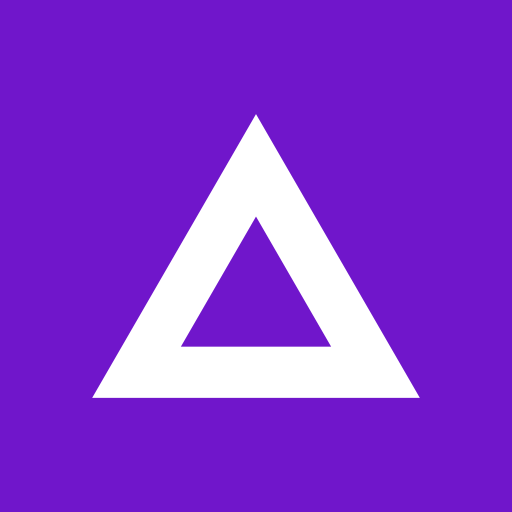
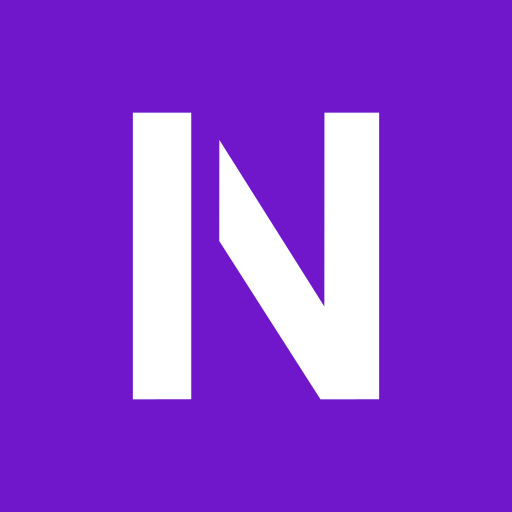
Drop the triangle mark, make the wordmark static
Two changes, both about the same corner of the brand: the nav no longer
shows the triangle beside the wordmark, and the wordmark itself is no
longer the self-animating SVG that morphed its 3 into that triangle on a
6.2s loop.

- public/logo-wordmark.svg is logo-animated.svg with every <animate>
  element stripped: 171KB down to 6KB, same letterforms, no morph.
  logo-animated.svg is kept as the source it was derived from.
- Logo.tsx collapses to just the wordmark — no more mark/lockup variants,
  no LogoMark, no artwork.mark. Nav and Footer both render it plain.
- Favicons and app icons are regenerated from an "N" cropped out of the
  wordmark's own two polygons, not a separate mark shape. A full wordmark
  at 16px is unreadable, but a single letter reads fine, and this avoids
  maintaining brand geometry that has to visually agree with a wordmark
  sitting right next to it.
- Removed public/logo-mark.svg — orphaned once nothing renders it.

Also: public/uploads/ was never gitignored, and a `git add -A` while
preparing this commit almost swept in a CMS-uploaded video. Added the
ignore rule; nothing under uploads had been committed before.

Changed region(s): [[0.1875, 0.2188, 0.8125, 0.7812]]

diff --git a/src/components/Logo.tsx b/src/components/Logo.tsx
@@ -1,123 +1,35 @@
-const WORDMARK_SRC = "/logo-animated.svg";
+const WORDMARK_SRC = "/logo-wordmark.svg";
 
 /**
- * The purple inside the logo artwork, which is *not* the same as the brand's
- * `--color-purple` token (#7a06d3): the supplied logo files are #7016cb. The
- * mark is drawn in the artwork's purple rather than the token's so that the two
- * halves of the lockup agree — a triangle in #7a06d3 beside a wordmark in
- * #7016cb reads as a mistake at any size.
+ * The NØRR3 wordmark.
  *
- * Deliberately not wired to the theme token, for the same reason: recolouring
- * the UI should not recolour the logo.
+ * There used to be a triangle mark shown beside it (the numeral 3, in the
+ * brand's other asset, morphs into one) and the wordmark used to be that
+ * animated SVG directly. Both were removed: the mark is not part of the logo
+ * as used on the site, and a shape morphing on a 6.2s loop in the header of
+ * every page was more motion than the brand wanted. This is the wordmark
+ * alone, static — `public/logo-wordmark.svg` is `logo-animated.svg` with its
+ * SMIL `<animate>` elements stripped (171KB down to 6KB).
  *
- * Written as classes rather than an inline style because an inline `color` wins
- * against `dark:text-white`, which would leave a purple mark on the dark
- * background. Tailwind picks the literal up by scanning this file.
+ * Kept as an `<img>` rather than inlined: it is one asset shared and cached
+ * across every page, and recolours for dark mode via a `brightness-0 invert`
+ * filter rather than `currentColor`, so callers pass that as `className`.
  */
-const MARK_COLOR = "text-[#7016cb] dark:text-white";
-
-/**
- * The NØRR3 logo, in the three forms a brand actually needs.
- *
- * - `lockup` (default) — the mark and the wordmark side by side. What the nav
- *   and any other "this is the site" position should use.
- * - `mark` — the triangle on its own, for tight spaces: an app icon, an avatar,
- *   a favicon, a loading state.
- * - `wordmark` — the letters on their own, for places already surrounded by
- *   brand, like the giant footer signature.
- *
- * The wordmark stays an `<img>` because it is a self-animating SMIL SVG — the
- * numeral 3 morphs into the mark on a loop, and running that inside an `<img>`
- * keeps 170KB of keyframes out of every page's HTML and cached as one asset.
- *
- * The mark is inlined instead, for the opposite reason: it is one path, so
- * inlining costs nothing and buys `currentColor`. That matters because the
- * wordmark can only be recoloured by `brightness-0 invert` filter tricks, while
- * the mark simply inherits whatever colour it is placed in.
- */
-
-/** Geometry documented in `public/logo-mark.svg`. */
-export function LogoMark({ className = "" }: { className?: string }) {
-  return (
-    <svg
-      viewBox="0 0 206 178.4"
-      className={className}
-      fill="currentColor"
-      aria-hidden
-      focusable="false"
-    >
-      <path fillRule="evenodd" d="M103 0 206 178.4H0Zm0 64.4-47.23 81.8h94.46Z" />
-    </svg>
-  );
-}
-
-export type LogoArtwork = {
-  /** CMS-uploaded mark. Empty means the built-in inline triangle. */
-  mark?: string;
-  /** CMS-uploaded wordmark. Empty means the built-in animated SVG. */
-  wordmark?: string;
-};
-
 export function Logo({
-  variant = "lockup",
   className = "",
   artwork,
 }: {
-  variant?: "lockup" | "mark" | "wordmark";
-  /**
-   * Applied to the wordmark image, so existing callers that pass filter classes
-   * such as `dark:brightness-0 dark:invert` keep working. The built-in mark
-   * recolours through `currentColor` and needs none of that — but an uploaded
-   * mark is an opaque file, so it gets the same filter treatment as the
-   * wordmark, since that is the only way to make arbitrary artwork work on a
-   * dark background.
-   */
   className?: string;
-  /** Replacement artwork from the CMS. Either field may be empty. */
-  artwork?: LogoArtwork;
+  /** A wordmark file uploaded in the CMS. Empty means the shipped SVG. */
+  artwork?: { wordmark?: string };
 }) {
-  const customMark = artwork?.mark?.trim() || "";
   const customWordmark = artwork?.wordmark?.trim() || "";
-
-  const mark = (height: string) =>
-    customMark ? (
-      <img
-        src={customMark}
-        alt=""
-        className={`${height} w-auto shrink-0 select-none ${className}`}
-        draggable={false}
-      />
-    ) : (
-      <LogoMark className={`${height} w-auto shrink-0 ${MARK_COLOR}`} />
-    );
-
-  if (variant === "mark") {
-    // Alone, the mark is the only thing naming the site, so it carries the label
-    // that the lockup puts on the wordmark instead.
-    return (
-      <span className="inline-flex" role="img" aria-label="NØRR3">
-        {mark("h-6")}
-      </span>
-    );
-  }
-
-  const wordmark = (
+  return (
     <img
       src={customWordmark || WORDMARK_SRC}
       alt="NØRR3"
       className={`h-6 w-auto select-none ${className}`}
       draggable={false}
     />
-  );
-
-  if (variant === "wordmark") return wordmark;
-
-  return (
-    // The mark is set slightly shorter than the wordmark: matched on height it
-    // reads as larger, because a triangle carries more ink than open letterforms.
-    <span className="flex items-center gap-2.5">
-      {mark("h-[19px]")}
-      {wordmark}
-    </span>
   );
 }

diff --git a/src/lib/cms.ts b/src/lib/cms.ts
@@ -177,10 +177,10 @@ export type SiteContent = {
     valuePills: { id: string; icon: string; fi: string; en: string }[];
     mediaPills: { id: string; icon: string; fi: string; en: string }[];
     /**
-     * Logo artwork. An empty path means "use the file the site ships with",
-     * which is how the brand survives a CMS that nobody has filled in.
+     * Wordmark override. An empty path means "use the file the site ships
+     * with", which is how the brand survives a CMS that nobody has filled in.
      */
-    logo: { mark: string; wordmark: string; navVariant: "lockup" | "mark" | "wordmark" };
+    logo: { wordmark: string };
   };
   mediaAlt: Record<string, { fi: string; en: string }>;
   site: {
@@ -253,9 +253,8 @@ function fallbackContent(error?: string): SiteContent {
     code: { css: "", head: "", bodyEnd: "" },
     theme: { root: {}, dark: {} },
     motion: MOTION_DEFAULTS,
-    // Empty logo paths mean the shipped artwork: public/logo-mark.svg and
-    // public/logo-animated.svg. Nothing to fall back to beyond that.
-    brand: { clients, valuePills, mediaPills, logo: { mark: "", wordmark: "", navVariant: "lockup" } },
+    // Empty means the shipped artwork: public/logo-wordmark.svg.
+    brand: { clients, valuePills, mediaPills, logo: { wordmark: "" } },
     mediaAlt: {},
     site: {
       name: "NØRR3",
@@ -401,13 +400,7 @@ function merge(raw: RawBundle, fallback: SiteContent): SiteContent {
       clients: nonEmpty(raw.brand?.clients, fallback.brand.clients),
       valuePills: nonEmpty(raw.brand?.valuePills, fallback.brand.valuePills),
       mediaPills: nonEmpty(raw.brand?.mediaPills, fallback.brand.mediaPills),
-      logo: {
-        mark: raw.brand?.logo?.mark || "",
-        wordmark: raw.brand?.logo?.wordmark || "",
-        navVariant: NAV_VARIANTS.includes(raw.brand?.logo?.navVariant as never)
-          ? (raw.brand!.logo!.navVariant as "lockup" | "mark" | "wordmark")
-          : "lockup",
-      },
+      logo: { wordmark: raw.brand?.logo?.wordmark || "" },
     },
     mediaAlt: raw.media ?? {},
     site: {
@@ -417,8 +410,6 @@ function merge(raw: RawBundle, fallback: SiteContent): SiteContent {
     } as SiteContent["site"],
   };
 }
-
-const NAV_VARIANTS = ["lockup", "mark", "wordmark"] as const;
 
 function nonEmpty<T>(value: unknown, fallback: T): T {
   return Array.isArray(value) && value.length > 0 ? (value as unknown as T) : fallback;

diff --git a/src/components/Footer.tsx b/src/components/Footer.tsx
@@ -6,13 +6,23 @@ import type { Dictionary } from "@/content/dictionary";
 import type { Locale } from "@/i18n/config";
 
 
-export function Footer({ locale, dict }: { locale: Locale; dict: Dictionary }) {
+export function Footer({
+  locale,
+  dict,
+  logo,
+}: {
+  locale: Locale;
+  dict: Dictionary;
+  /** Wordmark override, editable in the CMS under Design. */
+  logo?: { wordmark: string };
+}) {
+  const wordmarkSrc = logo?.wordmark?.trim() || "/logo-wordmark.svg";
   return (
     <footer className="bg-purple text-white">
-      {/* Giant logo wordmark — uses the real NØRR3 animated SVG so the
-          wordmark matches the brand exactly (incl. the 3→Δ morph). The SVG
-          is black-on-purple (the footer bg), same as the nav logo on white.
-          Letters rise in on scroll for the reveal. */}
+      {/* Giant logo wordmark — the static SVG (no morph, no loop), so it does not
+          idle-animate every time it scrolls into view. Black-on-purple (the
+          footer bg), same treatment as the nav logo on white. Letters still
+          rise in on scroll for the reveal itself. */}
       <motion.div
         aria-hidden
         initial={{ opacity: 0 }}
@@ -22,7 +32,7 @@ export function Footer({ locale, dict }: { locale: Locale; dict: Dictionary }) {
         className="mx-auto flex max-w-[1600px] items-end justify-center overflow-hidden px-6 pt-16 lg:px-14"
       >
         <img
-          src="/logo-animated.svg"
+          src={wordmarkSrc}
           alt=""
           className="h-auto w-full max-w-[1400px] select-none"
           style={{ filter: "brightness(0)" }}

diff --git a/src/components/Nav.tsx b/src/components/Nav.tsx
@@ -24,8 +24,8 @@ export function Nav({
 }: {
   locale: Locale;
   dict: Dictionary;
-  /** Logo artwork and treatment, both editable in the CMS under Design. */
-  logo?: { mark: string; wordmark: string; navVariant: "lockup" | "mark" | "wordmark" };
+  /** Wordmark override, editable in the CMS under Design. */
+  logo?: { wordmark: string };
   /**
    * Menu managed in the CMS. Order, labels and visibility are editable there;
    * when it is absent (CMS unreachable) the nav falls back to the seven routes
@@ -69,11 +69,7 @@ export function Nav({
           href={`/${locale}`}
           className={`shrink-0 rounded-sm transition-opacity hover:opacity-75 ${focusRing}`}
         >
-          <Logo
-            variant={logo?.navVariant ?? "lockup"}
-            artwork={{ mark: logo?.mark, wordmark: logo?.wordmark }}
-            className="dark:brightness-0 dark:invert"
-          />
+          <Logo artwork={{ wordmark: logo?.wordmark }} className="dark:brightness-0 dark:invert" />
         </Link>
 
         {/* Figma nav: plain links, purple dot before the active page */}

diff --git a/src/app/[locale]/layout.tsx b/src/app/[locale]/layout.tsx
@@ -99,7 +99,7 @@ export default async function LocaleLayout({
       <main id="main-content" tabIndex={-1} className="flex-1 outline-none">
         {children}
       </main>
-      <Footer locale={locale} dict={dict} />
+      <Footer locale={locale} dict={dict} logo={content.brand.logo} />
       <CookieConsent dict={dict.cookies} locale={locale} />
       </MotionSettingsProvider>
     </MotionConfig>

diff --git a/README.md b/README.md
@@ -82,39 +82,33 @@ all reachable from CMS → Design. Anything untouched there injects nothing.
 
 ### The logo
 
-The logo has two parts, and the distinction matters because they fail in
-different places:
+Wordmark only — there used to be a triangle mark shown beside it in the nav, and
+the wordmark used to be a self-animating SMIL SVG that morphed the numeral 3
+into that triangle on a 6.2s loop. Both were removed: the mark is not part of
+the logo as the site uses it, and a shape looping in the header of every page
+was more motion than the brand wanted.
 
 ```
-public/logo-mark.svg       the triangle, as a standalone asset
-public/logo-animated.svg   the wordmark; a self-animating SMIL SVG (170KB)
-src/components/Logo.tsx    <Logo variant="lockup" | "mark" | "wordmark" />
-scripts/generate-icons.mjs regenerates every favicon and app icon from the mark
+public/logo-animated.svg   the original, still self-animating — source only
+public/logo-wordmark.svg   the shipped file: logo-animated.svg with every
+                            <animate> element stripped (171KB down to 6KB)
+src/components/Logo.tsx    <Logo artwork={{ wordmark }} />
+scripts/generate-icons.mjs regenerates every favicon and app icon
 ```
 
-The wordmark stays an `<img>` so its 170KB of morph keyframes stay out of every
-page's HTML and cache as one asset. The mark is *inlined* by `Logo`, because it
-is a single path — that costs nothing and buys `currentColor`, which is how it
-turns white on the dark theme without the `brightness-0 invert` filter the
-wordmark needs.
+The wordmark stays an `<img>` rather than being inlined: it is one asset shared
+and cached across every page, and it recolours for dark mode with a
+`brightness-0 invert` filter rather than `currentColor`.
 
-The mark's geometry is an equilateral triangle outline of uniform thickness. It
-was measured off the held state of the wordmark's own 3→triangle morph and then
-re-authored cleanly, so it is the same shape the animation resolves to but 686
-bytes rather than 4KB of polyline points.
+It is replaceable from the CMS (Design → Logo). An empty setting means the
+shipped file.
 
-Both slots are replaceable from the CMS (Design → Logo), and the nav treatment
-is a setting. An empty setting means the shipped file.
-
-Two things to know:
-
-- **Two purples.** The logo artwork is `#7016cb`; the brand's `--color-purple`
-  token is `#7a06d3`. `Logo` draws the mark in the artwork's purple so the two
-  halves of the lockup match each other, and deliberately does not follow the
-  theme token — recolouring the UI should not recolour the logo. Worth resolving
-  upstream at some point, in one direction or the other.
-- **Icons are generated, not live.** Changing the mark in the CMS does not
-  rebuild the favicons; `node scripts/generate-icons.mjs` does.
+**Favicons crop the wordmark's own "N"** rather than reusing a separate mark —
+two polygons taken verbatim from `public/logo-wordmark.svg`. A full wordmark
+shrunk to 16px is unreadable; one letter reads fine, and it avoids inventing
+brand geometry that has to match a wordmark rendered right next to it. Icons
+are generated, not live: `node scripts/generate-icons.mjs` rebuilds them, and
+nothing in the CMS does it automatically if the wordmark artwork changes.
 
 ### Video in an image slot
 
